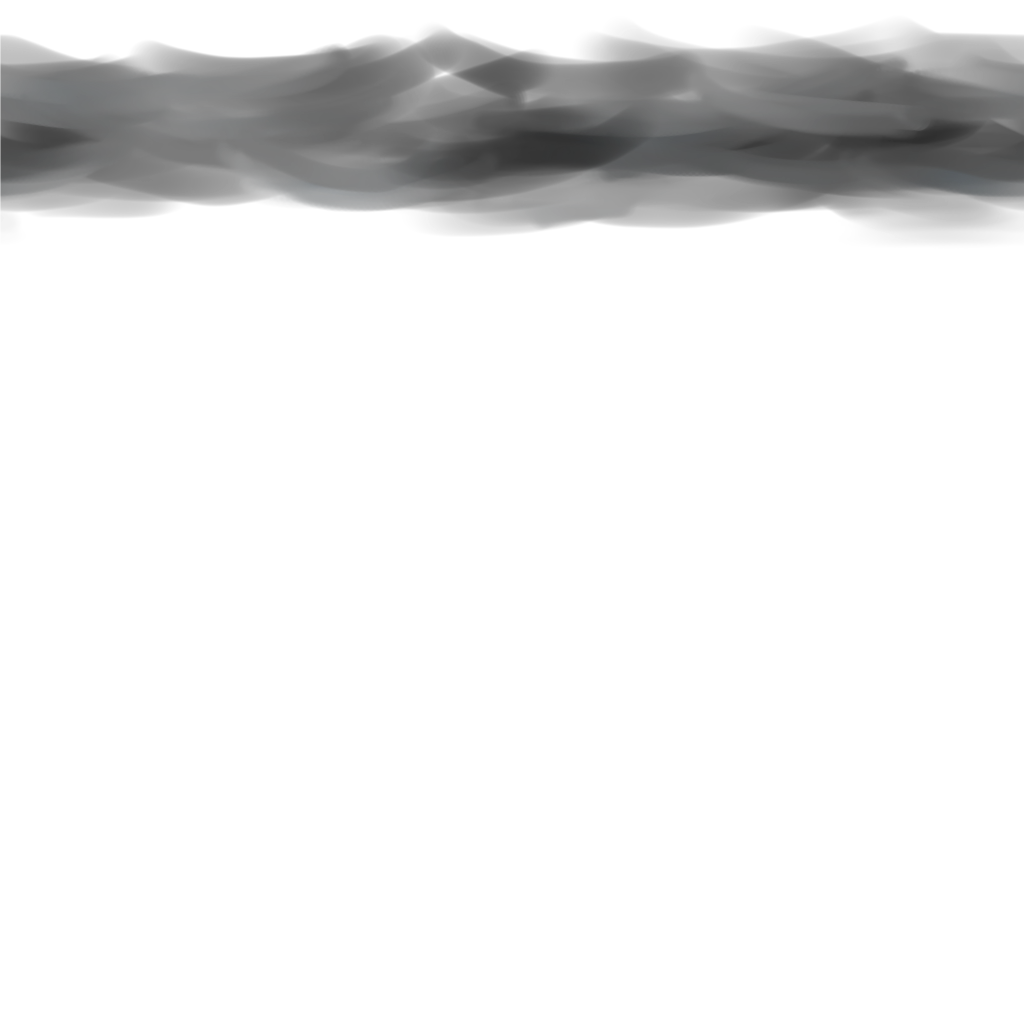
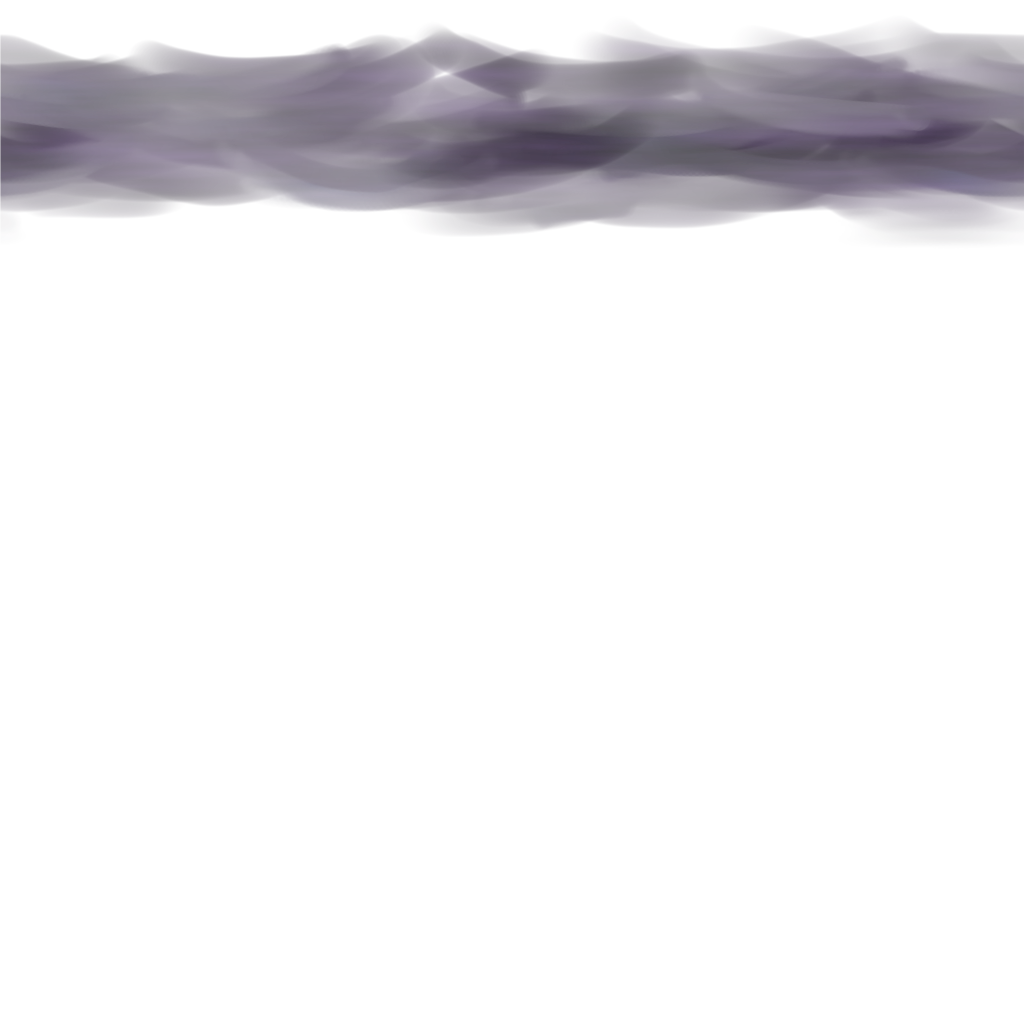
balanced iku, refined spell bg

Changed region(s): [[0.0, 0.0312, 0.6562, 0.1875], [0.6562, 0.0312, 1.0, 0.2188]]

diff --git a/src/stages/stage4_events.c b/src/stages/stage4_events.c
@@ -115,10 +115,11 @@ int stage4_laserfairy(Enemy *e, int t) {
 	if(t > 700)
 		e->pos -= e->args[0];
 	
-	FROM_TO(100, 700, 7-global.diff) {
+	FROM_TO(100, 700, (7-global.diff)*(1+(int)creal(e->args[1]))) {
 		complex n = cexp(I*carg(global.plr.pos-e->pos)+(0.2-0.02*global.diff)*I*_i-M_PI/2*I);
-		create_lasercurve2c(e->pos, 100, 300, rgb(0.7, 0.3, 1), las_accel, 4*n, 0.05*n);
-		create_projectile2c("plainball", e->pos, rgb(0.7, 0.3, 1), accelerated, 4*n, 0.05*n)->draw = ProjDrawAdd;
+		float fac = (0.5+0.2*global.diff);
+		create_lasercurve2c(e->pos, 100, 300, rgb(0.7, 0.3, 1), las_accel, fac*4*n, fac*0.05*n);
+		create_projectile2c("plainball", e->pos, rgb(0.7, 0.3, 1), accelerated, fac*4*n, fac*0.05*n)->draw = ProjDrawAdd;
 	}
 	return 1;
 }
@@ -157,8 +158,8 @@ int stage4_explosion(Enemy *e, int t) {
 		create_projectile2c("rice", e->pos, rgb(1,0,0), asymptotic, -2*cexp(-0.3I*_i+frand()*I), 3);
 	}
 	
-	FROM_TO(500, 800, 60-5*global.diff)
-		create_laserline(e->pos, 10*cexp(I*carg(global.plr.pos-e->pos)+0.04I*(1-2*frand())), 30, 60, rgb(1, 0.3, 1));
+	FROM_TO(500, 800, 80-5*global.diff)
+		create_laserline(e->pos, 10*cexp(I*carg(global.plr.pos-e->pos)+0.04I*(1-2*frand())), 60, 120, rgb(1, 0.3, 1));
 		
 	return 1;
 }
@@ -180,7 +181,7 @@ void iku_mid_intro(Boss *b, int t) {
 Boss *create_iku_mid() {
 	Boss *b = create_boss("Bombs?", "iku", VIEWPORT_W+800I);
 	
-	boss_add_attack(b, AT_SurvivalSpell, "Introduction", 16, 10, iku_mid_intro, NULL);
+	boss_add_attack(b, AT_SurvivalSpell, "Static Bombs", 16, 10, iku_mid_intro, NULL);
 	
 	return b;
 }
@@ -277,7 +278,7 @@ void iku_atmospheric(Boss *b, int time) {
 		int c = 10;
 		
 		for(i = -c*0.5; i <= c*0.5; i++) {
-			create_projectile2c("ball", p1+(p2-p1)/c*i, rgb(1/(1+fabs(0.3*i)), 1, 1), accelerated, 0, 0.01*cexp(I*carg(p2-p1)+I*M_PI/2+0.2I*i))->draw = ProjDrawAdd;
+			create_projectile2c("ball", p1+(p2-p1)/c*i, rgb(1/(1+fabs(0.3*i)), 1, 1), accelerated, 0, (0.005+0.001*global.diff)*cexp(I*carg(p2-p1)+I*M_PI/2+0.2I*i))->draw = ProjDrawAdd;
 		}
 	}
 	
@@ -403,6 +404,11 @@ complex cathode_laser(Laser *l, float t) {
 }
 
 void iku_cathode(Boss *b, int t) {
+	if(t < 0) {
+		GO_TO(b, VIEWPORT_W/2+200I, 0.02);
+		return;
+	}
+	
 	TIMER(&t)
 	
 	FROM_TO(50, 1800, 70-global.diff*10) {
@@ -456,7 +462,7 @@ void stage4_events() {
 	TIMER(&global.timer);
 	
 	AT(0)
-		global.timer = 2900;
+		global.timer = 5000;
 	
 	FROM_TO(60, 120, 10)
 		create_enemy1c(VIEWPORT_W+70I+50*_i*I, 300, Fairy, stage4_greeter, -3);
@@ -476,7 +482,7 @@ void stage4_events() {
 	AT(1000)
 		create_enemy1c(VIEWPORT_W/2, 6000, BigFairy, stage4_laserfairy, 2I);
 		
-	FROM_TO(1800, 2200, 40)
+	FROM_TO(1500, 2200, 40)
 		create_enemy1c(VIEWPORT_W+200I*frand(), 500, Swirl, stage4_miner, -3+2I*frand());
 		
 	FROM_TO(2200, 2600, 40)
@@ -495,13 +501,13 @@ void stage4_events() {
 		create_enemy1c(200I+VIEWPORT_W*(_i&1), 1500, Fairy, stage4_superbullet, 3-6*(_i&1));
 	
 	AT(3400) {
-		create_enemy1c(VIEWPORT_W/4, 6000, BigFairy, stage4_laserfairy, 2I);
-		create_enemy1c(VIEWPORT_W/4*3, 6000, BigFairy, stage4_laserfairy, 2I);
+		create_enemy2c(VIEWPORT_W/4, 6000, BigFairy, stage4_laserfairy, 2I, 1);
+		create_enemy2c(VIEWPORT_W/4*3, 6000, BigFairy, stage4_laserfairy, 2I, 1);
 	}
 	
 	FROM_TO(4200, 5000, 20) {
 		float f = frand();
-		create_enemy3c(VIEWPORT_W/2, 600, Swirl, stage4_swirl, 2*cexp(I*M_PI*f)+I, 60 + 100I, cexp(0.01I*(1-2*(f<0.5))));
+		create_enemy3c(VIEWPORT_W/2, 400, Swirl, stage4_swirl, 2*cexp(I*M_PI*f)+I, 60 + 100I, cexp(0.01I*(1-2*(f<0.5))));
 	}
 	
 	AT(5300)

diff --git a/src/stages/stage4.c b/src/stages/stage4.c
@@ -95,6 +95,10 @@ void stage4_draw() {
 void iku_spell_bg(Boss *b, int t) {
 	fill_screen(0, 300, 1, "stage4/spell_bg");
 	
+	glBlendFunc(GL_ZERO, GL_SRC_COLOR);
+	fill_screen(0, t*0.001, 0.7, "stage4/noise");
+	glBlendFunc(GL_SRC_ALPHA, GL_ONE_MINUS_SRC_ALPHA);
+	
 	glPushMatrix();
 	glTranslatef(0, -100, 0);
 	
